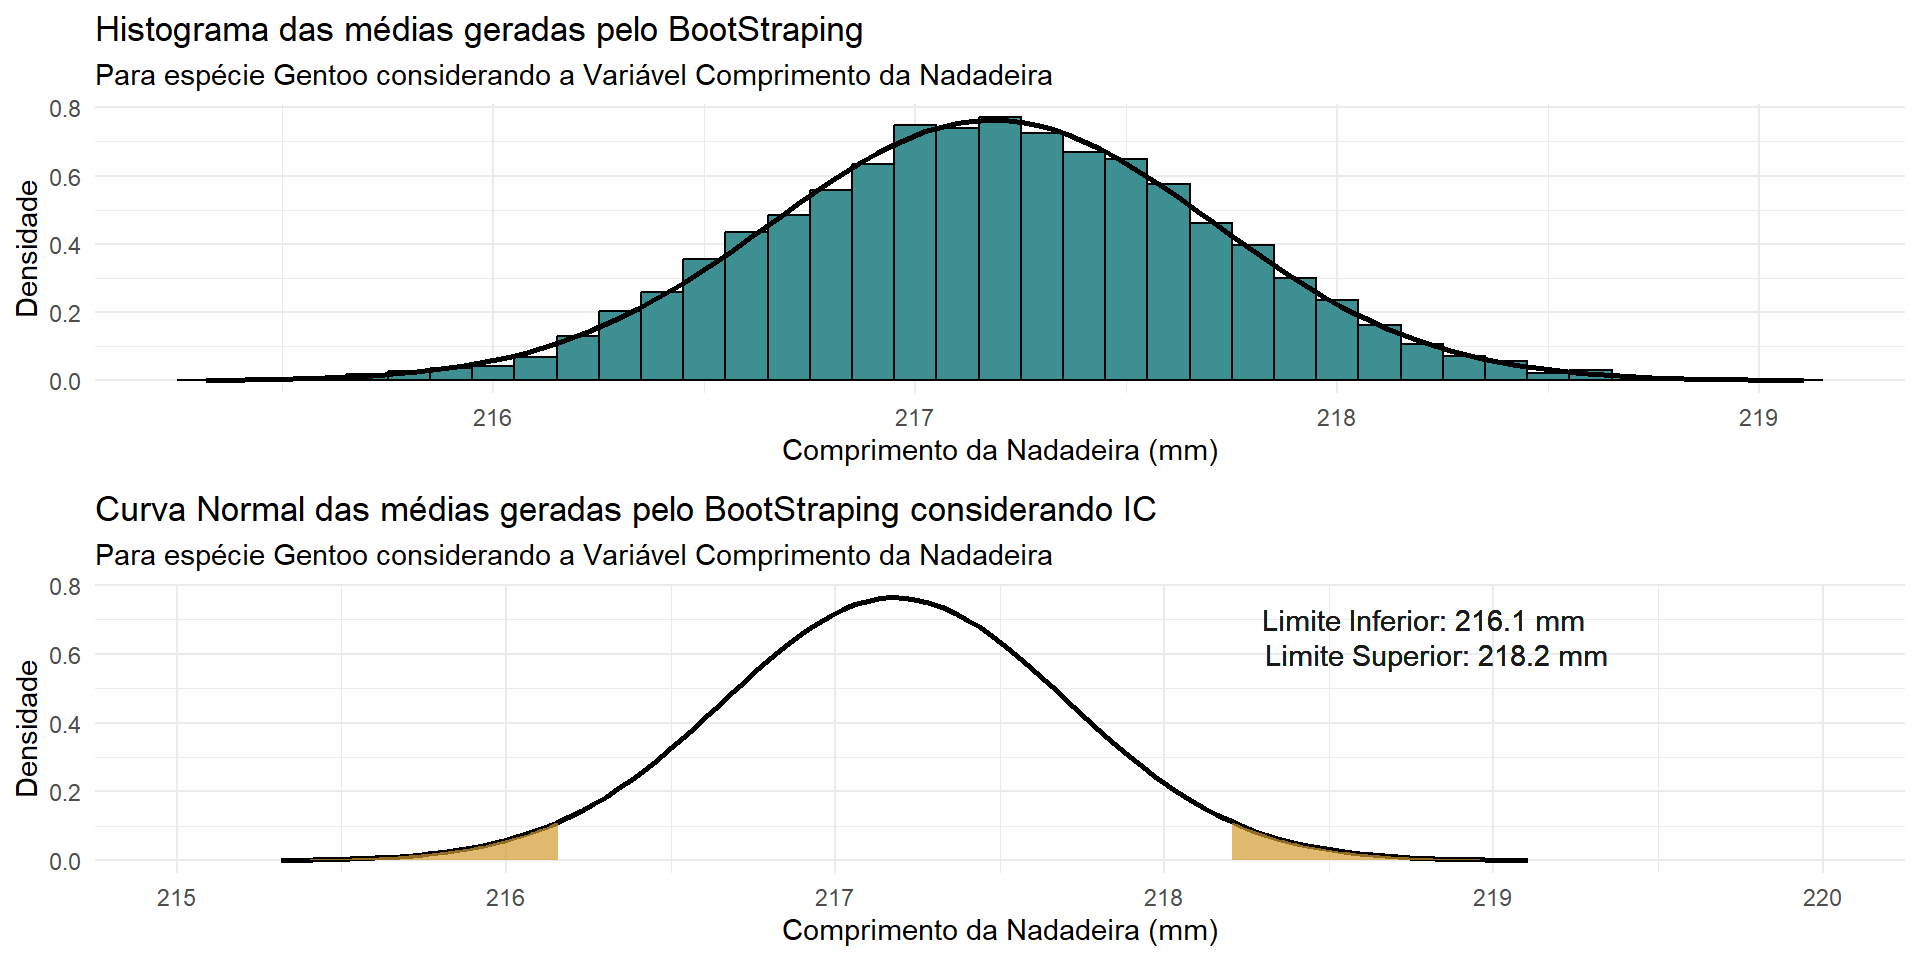
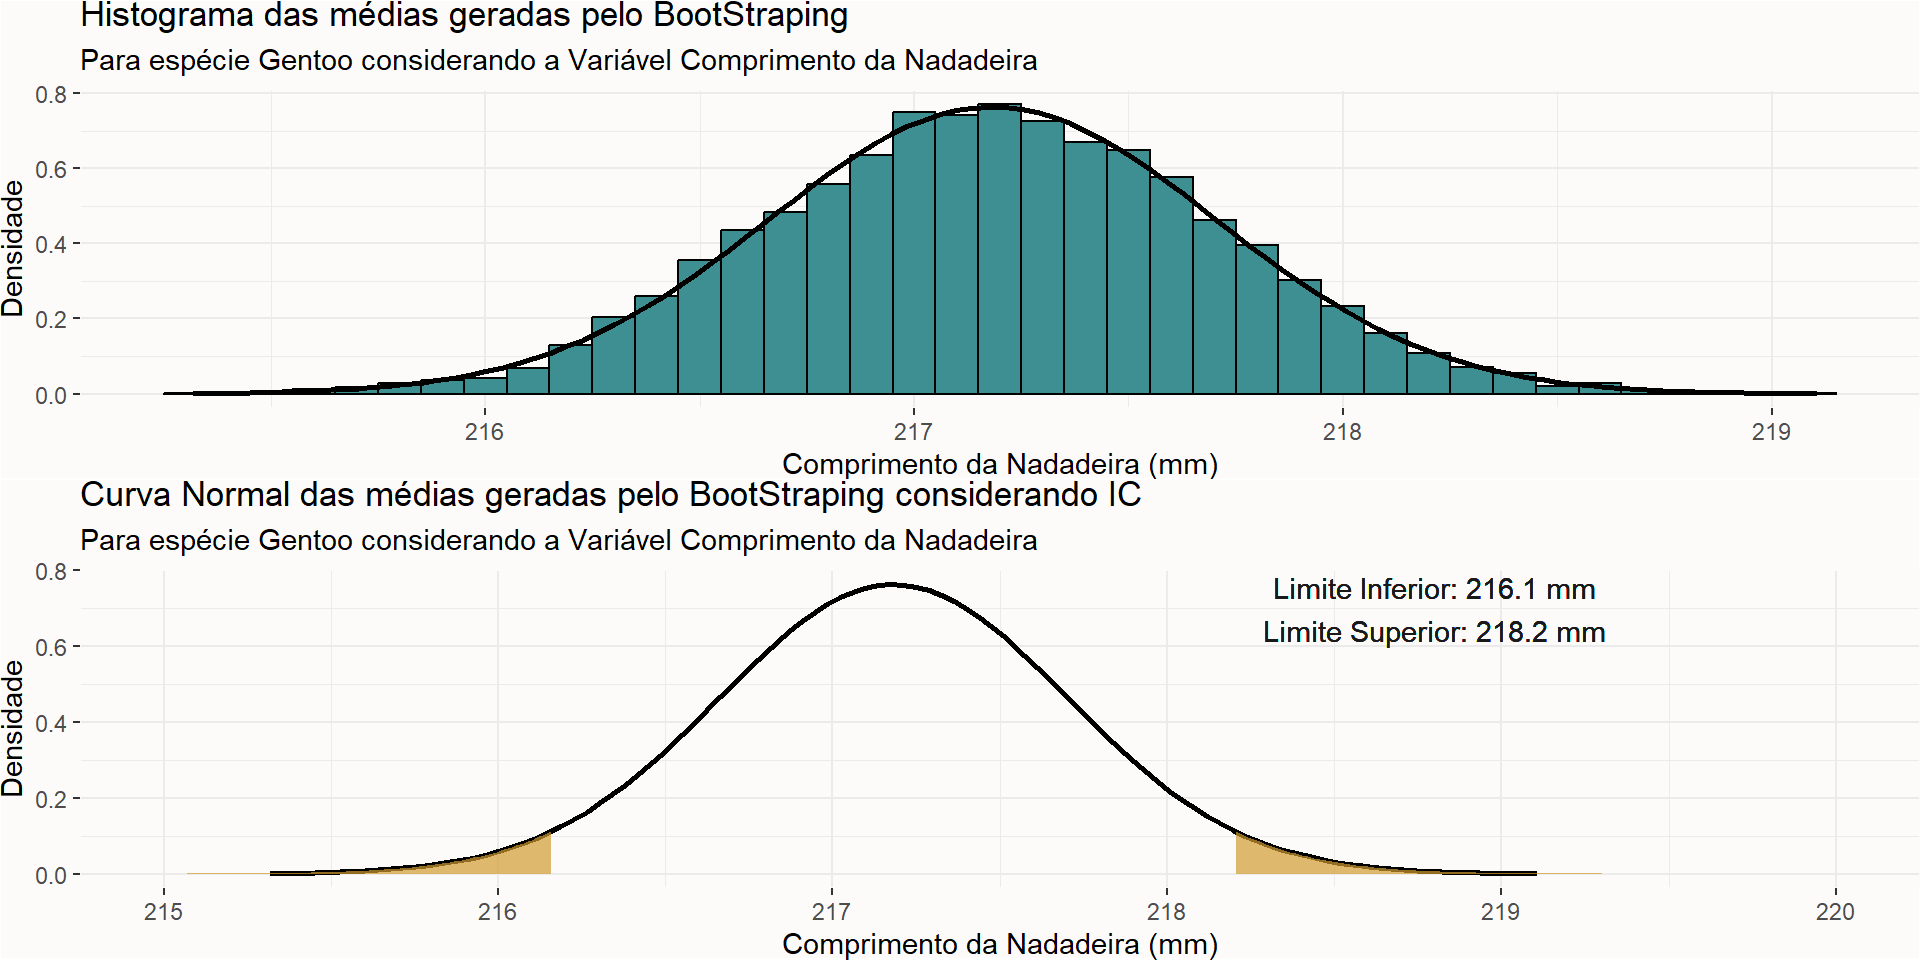
Mudança na cor do fundo dos gráficos para se adequar ao fundo do doc

diff --git a/presentation_test.html b/presentation_test.html
@@ -467,82 +467,82 @@
 <tr class="odd">
 <td style="text-align: center;">Gentoo</td>
 <td style="text-align: center;">Biscoe</td>
-<td style="text-align: right;">55.9</td>
-<td style="text-align: right;">17.0</td>
-<td style="text-align: right;">228</td>
-<td style="text-align: right;">5600</td>
-<td style="text-align: center;">male</td>
+<td style="text-align: right;">46.2</td>
+<td style="text-align: right;">14.1</td>
+<td style="text-align: right;">217</td>
+<td style="text-align: right;">4375</td>
+<td style="text-align: center;">female</td>
 <td style="text-align: center;">2009</td>
 </tr>
 <tr class="even">
-<td style="text-align: center;">Gentoo</td>
-<td style="text-align: center;">Biscoe</td>
-<td style="text-align: right;">42.7</td>
-<td style="text-align: right;">13.7</td>
-<td style="text-align: right;">208</td>
-<td style="text-align: right;">3950</td>
-<td style="text-align: center;">female</td>
-<td style="text-align: center;">2008</td>
-</tr>
-<tr class="odd">
-<td style="text-align: center;">Adelie</td>
-<td style="text-align: center;">Biscoe</td>
-<td style="text-align: right;">41.6</td>
-<td style="text-align: right;">18.0</td>
-<td style="text-align: right;">192</td>
-<td style="text-align: right;">3950</td>
-<td style="text-align: center;">male</td>
-<td style="text-align: center;">2008</td>
-</tr>
-<tr class="even">
-<td style="text-align: center;">Gentoo</td>
-<td style="text-align: center;">Biscoe</td>
-<td style="text-align: right;">50.4</td>
-<td style="text-align: right;">15.3</td>
-<td style="text-align: right;">224</td>
-<td style="text-align: right;">5550</td>
-<td style="text-align: center;">male</td>
-<td style="text-align: center;">2008</td>
-</tr>
-<tr class="odd">
-<td style="text-align: center;">Gentoo</td>
-<td style="text-align: center;">Biscoe</td>
-<td style="text-align: right;">49.5</td>
-<td style="text-align: right;">16.1</td>
-<td style="text-align: right;">224</td>
-<td style="text-align: right;">5650</td>
-<td style="text-align: center;">male</td>
-<td style="text-align: center;">2009</td>
-</tr>
-<tr class="even">
-<td style="text-align: center;">Gentoo</td>
-<td style="text-align: center;">Biscoe</td>
-<td style="text-align: right;">45.5</td>
-<td style="text-align: right;">13.7</td>
-<td style="text-align: right;">214</td>
-<td style="text-align: right;">4650</td>
-<td style="text-align: center;">female</td>
-<td style="text-align: center;">2007</td>
-</tr>
-<tr class="odd">
-<td style="text-align: center;">Gentoo</td>
-<td style="text-align: center;">Biscoe</td>
-<td style="text-align: right;">49.0</td>
-<td style="text-align: right;">16.1</td>
-<td style="text-align: right;">216</td>
-<td style="text-align: right;">5550</td>
-<td style="text-align: center;">male</td>
-<td style="text-align: center;">2007</td>
-</tr>
-<tr class="even">
-<td style="text-align: center;">Adelie</td>
-<td style="text-align: center;">Biscoe</td>
-<td style="text-align: right;">41.1</td>
-<td style="text-align: right;">18.2</td>
-<td style="text-align: right;">192</td>
+<td style="text-align: center;">Chinstrap</td>
+<td style="text-align: center;">Dream</td>
+<td style="text-align: right;">49.3</td>
+<td style="text-align: right;">19.9</td>
+<td style="text-align: right;">203</td>
 <td style="text-align: right;">4050</td>
 <td style="text-align: center;">male</td>
+<td style="text-align: center;">2009</td>
+</tr>
+<tr class="odd">
+<td style="text-align: center;">Gentoo</td>
+<td style="text-align: center;">Biscoe</td>
+<td style="text-align: right;">50.1</td>
+<td style="text-align: right;">15.0</td>
+<td style="text-align: right;">225</td>
+<td style="text-align: right;">5000</td>
+<td style="text-align: center;">male</td>
 <td style="text-align: center;">2008</td>
+</tr>
+<tr class="even">
+<td style="text-align: center;">Adelie</td>
+<td style="text-align: center;">Biscoe</td>
+<td style="text-align: right;">37.9</td>
+<td style="text-align: right;">18.6</td>
+<td style="text-align: right;">193</td>
+<td style="text-align: right;">2925</td>
+<td style="text-align: center;">female</td>
+<td style="text-align: center;">2009</td>
+</tr>
+<tr class="odd">
+<td style="text-align: center;">Adelie</td>
+<td style="text-align: center;">Torgersen</td>
+<td style="text-align: right;">35.1</td>
+<td style="text-align: right;">19.4</td>
+<td style="text-align: right;">193</td>
+<td style="text-align: right;">4200</td>
+<td style="text-align: center;">male</td>
+<td style="text-align: center;">2008</td>
+</tr>
+<tr class="even">
+<td style="text-align: center;">Chinstrap</td>
+<td style="text-align: center;">Dream</td>
+<td style="text-align: right;">50.3</td>
+<td style="text-align: right;">20.0</td>
+<td style="text-align: right;">197</td>
+<td style="text-align: right;">3300</td>
+<td style="text-align: center;">male</td>
+<td style="text-align: center;">2007</td>
+</tr>
+<tr class="odd">
+<td style="text-align: center;">Adelie</td>
+<td style="text-align: center;">Biscoe</td>
+<td style="text-align: right;">42.2</td>
+<td style="text-align: right;">19.5</td>
+<td style="text-align: right;">197</td>
+<td style="text-align: right;">4275</td>
+<td style="text-align: center;">male</td>
+<td style="text-align: center;">2009</td>
+</tr>
+<tr class="even">
+<td style="text-align: center;">Chinstrap</td>
+<td style="text-align: center;">Dream</td>
+<td style="text-align: right;">50.5</td>
+<td style="text-align: right;">19.6</td>
+<td style="text-align: right;">201</td>
+<td style="text-align: right;">4050</td>
+<td style="text-align: center;">male</td>
+<td style="text-align: center;">2007</td>
 </tr>
 </tbody>
 </table>
@@ -677,8 +677,8 @@
 <div id="tabset-1-1">
 <div class="cell">
 <div class="cell-output-display">
-<div class="leaflet html-widget html-fill-item" id="htmlwidget-92cbc68e1fd7fe3ce00e" style="width:960px;height:480px;"></div>
-<script type="application/json" data-for="htmlwidget-92cbc68e1fd7fe3ce00e">{"x":{"options":{"crs":{"crsClass":"L.CRS.EPSG3857","code":null,"proj4def":null,"projectedBounds":null,"options":{}}},"calls":[{"method":"addTiles","args":["https://{s}.tile.openstreetmap.org/{z}/{x}/{y}.png",null,null,{"minZoom":0,"maxZoom":18,"tileSize":256,"subdomains":"abc","errorTileUrl":"","tms":false,"noWrap":false,"zoomOffset":0,"zoomReverse":false,"opacity":1,"zIndex":1,"detectRetina":false,"attribution":"&copy; <a href=\"https://openstreetmap.org/copyright/\">OpenStreetMap<\/a>,  <a href=\"https://opendatacommons.org/licenses/odbl/\">ODbL<\/a>"}]},{"method":"addMarkers","args":[-65.4333,-65.5,null,null,null,{"interactive":true,"draggable":false,"keyboard":true,"title":"","alt":"","zIndexOffset":0,"opacity":1,"riseOnHover":false,"riseOffset":250},"Biscoe Island",null,null,null,null,{"interactive":false,"permanent":false,"direction":"auto","opacity":1,"offset":[0,0],"textsize":"10px","textOnly":false,"className":"","sticky":true},null]},{"method":"addMarkers","args":[-64.7333,-64.2333,null,null,null,{"interactive":true,"draggable":false,"keyboard":true,"title":"","alt":"","zIndexOffset":0,"opacity":1,"riseOnHover":false,"riseOffset":250},"Dream Island",null,null,null,null,{"interactive":false,"permanent":false,"direction":"auto","opacity":1,"offset":[0,0],"textsize":"10px","textOnly":false,"className":"","sticky":true},null]},{"method":"addMarkers","args":[-64.7666636,-64.083333,null,null,null,{"interactive":true,"draggable":false,"keyboard":true,"title":"","alt":"","zIndexOffset":0,"opacity":1,"riseOnHover":false,"riseOffset":250},"Torgersen Island",null,null,null,null,{"interactive":false,"permanent":false,"direction":"auto","opacity":1,"offset":[0,0],"textsize":"10px","textOnly":false,"className":"","sticky":true},null]},{"method":"addProviderTiles","args":["Esri.WorldImagery",null,null,{"errorTileUrl":"","noWrap":false,"detectRetina":false}]}],"limits":{"lat":[-65.4333,-64.7333],"lng":[-65.5,-64.083333]}},"evals":[],"jsHooks":[]}</script>
+<div class="leaflet html-widget html-fill-item" id="htmlwidget-2a202fa80bedd026b46e" style="width:960px;height:480px;"></div>
+<script type="application/json" data-for="htmlwidget-2a202fa80bedd026b46e">{"x":{"options":{"crs":{"crsClass":"L.CRS.EPSG3857","code":null,"proj4def":null,"projectedBounds":null,"options":{}}},"calls":[{"method":"addTiles","args":["https://{s}.tile.openstreetmap.org/{z}/{x}/{y}.png",null,null,{"minZoom":0,"maxZoom":18,"tileSize":256,"subdomains":"abc","errorTileUrl":"","tms":false,"noWrap":false,"zoomOffset":0,"zoomReverse":false,"opacity":1,"zIndex":1,"detectRetina":false,"attribution":"&copy; <a href=\"https://openstreetmap.org/copyright/\">OpenStreetMap<\/a>,  <a href=\"https://opendatacommons.org/licenses/odbl/\">ODbL<\/a>"}]},{"method":"addMarkers","args":[-65.4333,-65.5,null,null,null,{"interactive":true,"draggable":false,"keyboard":true,"title":"","alt":"","zIndexOffset":0,"opacity":1,"riseOnHover":false,"riseOffset":250},"Biscoe Island",null,null,null,null,{"interactive":false,"permanent":false,"direction":"auto","opacity":1,"offset":[0,0],"textsize":"10px","textOnly":false,"className":"","sticky":true},null]},{"method":"addMarkers","args":[-64.7333,-64.2333,null,null,null,{"interactive":true,"draggable":false,"keyboard":true,"title":"","alt":"","zIndexOffset":0,"opacity":1,"riseOnHover":false,"riseOffset":250},"Dream Island",null,null,null,null,{"interactive":false,"permanent":false,"direction":"auto","opacity":1,"offset":[0,0],"textsize":"10px","textOnly":false,"className":"","sticky":true},null]},{"method":"addMarkers","args":[-64.7666636,-64.083333,null,null,null,{"interactive":true,"draggable":false,"keyboard":true,"title":"","alt":"","zIndexOffset":0,"opacity":1,"riseOnHover":false,"riseOffset":250},"Torgersen Island",null,null,null,null,{"interactive":false,"permanent":false,"direction":"auto","opacity":1,"offset":[0,0],"textsize":"10px","textOnly":false,"className":"","sticky":true},null]},{"method":"addProviderTiles","args":["Esri.WorldImagery",null,null,{"errorTileUrl":"","noWrap":false,"detectRetina":false}]}],"limits":{"lat":[-65.4333,-64.7333],"lng":[-65.5,-64.083333]}},"evals":[],"jsHooks":[]}</script>
 </div>
 </div>
 </div>
